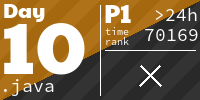
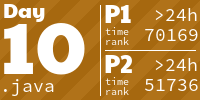
2023 day 10 complete

diff --git a/README.md b/README.md
@@ -2,7 +2,6 @@
 <body>
 <h2>Advent Of Code</h2>
 
-
 <!-- AOC TILES BEGIN -->
 <h1 align="center">
   2024 - 50 ⭐ - Java
@@ -83,7 +82,7 @@
   <img src=".aoc_tiles/tiles/2024/25.png" width="161px">
 </a>
 <h1 align="center">
-  2023 - 19 ⭐ - Java
+  2023 - 20 ⭐ - Java
 </h1>
 <a href="src/main/java/fr/home/mikedev/aoc2023/Main01.java">
   <img src=".aoc_tiles/tiles/2023/01.png" width="161px">
